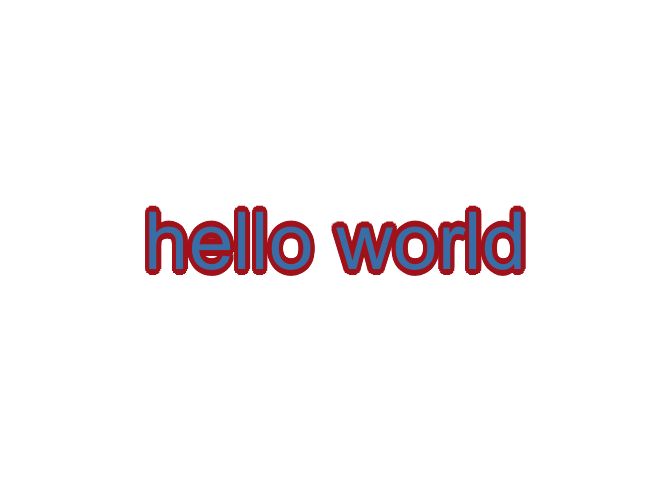
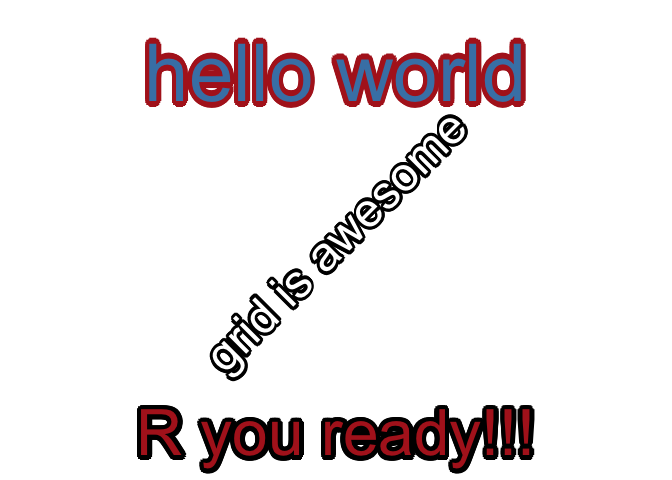
update examples

Changed region(s): [[0.2188, 0.0625, 0.7812, 0.8125], [0.1875, 0.8438, 0.8125, 1.0]]

diff --git a/README.md b/README.md
@@ -4,7 +4,9 @@ shadow text grob: `shadowtextGrob` and `grid.shadowtext`
 
 ``` r
 library(shadowtext)
-grid.shadowtext("hello world", gp=gpar(cex=5, col="steelblue"), bg.color="firebrick")
+grid.shadowtext("grid is awesome", gp=gpar(cex=3, col="white"), rot=45)
+grid.shadowtext("hello world", y=0.85, gp=gpar(cex=5, col="steelblue"), bg.color="firebrick")
+grid.shadowtext("R you ready!!!", y=.1, gp=gpar(cex=4, col="firebrick"))
 ```
 
 ![](Figs/unnamed-chunk-2-1.png)
@@ -27,14 +29,19 @@ random_text <- function(n=1, length=10) {
 n <- 10
 set.seed(2017-10-27)
 d <- data.frame(x = rnorm(n), y=rnorm(n),
-                label = random_text(n))
-ggplot(d, aes(x,y)) + geom_shadowtext(aes(label=label), size=5)
+                label = random_text(n),
+                angle = sample(0:360, 10))
+p <- ggplot(d, aes(x, y)) + xlim(-2, 2.2) + ylim(-2, 2.4)
+
+p + geom_shadowtext(aes(label=label, angle=angle), size=5)
 ```
 
 ![](Figs/unnamed-chunk-3-1.png)
 
 ``` r
-ggplot(d, aes(x,y)) + geom_shadowtext(aes(label=label, color=label), bg.color='firebrick', size=5)
+p + geom_shadowtext(aes(label=label, angle=angle, color=label),
+                    bg.color='firebrick', size=5) +
+    theme(legend.position="none")
 ```
 
 ![](Figs/unnamed-chunk-3-2.png)
